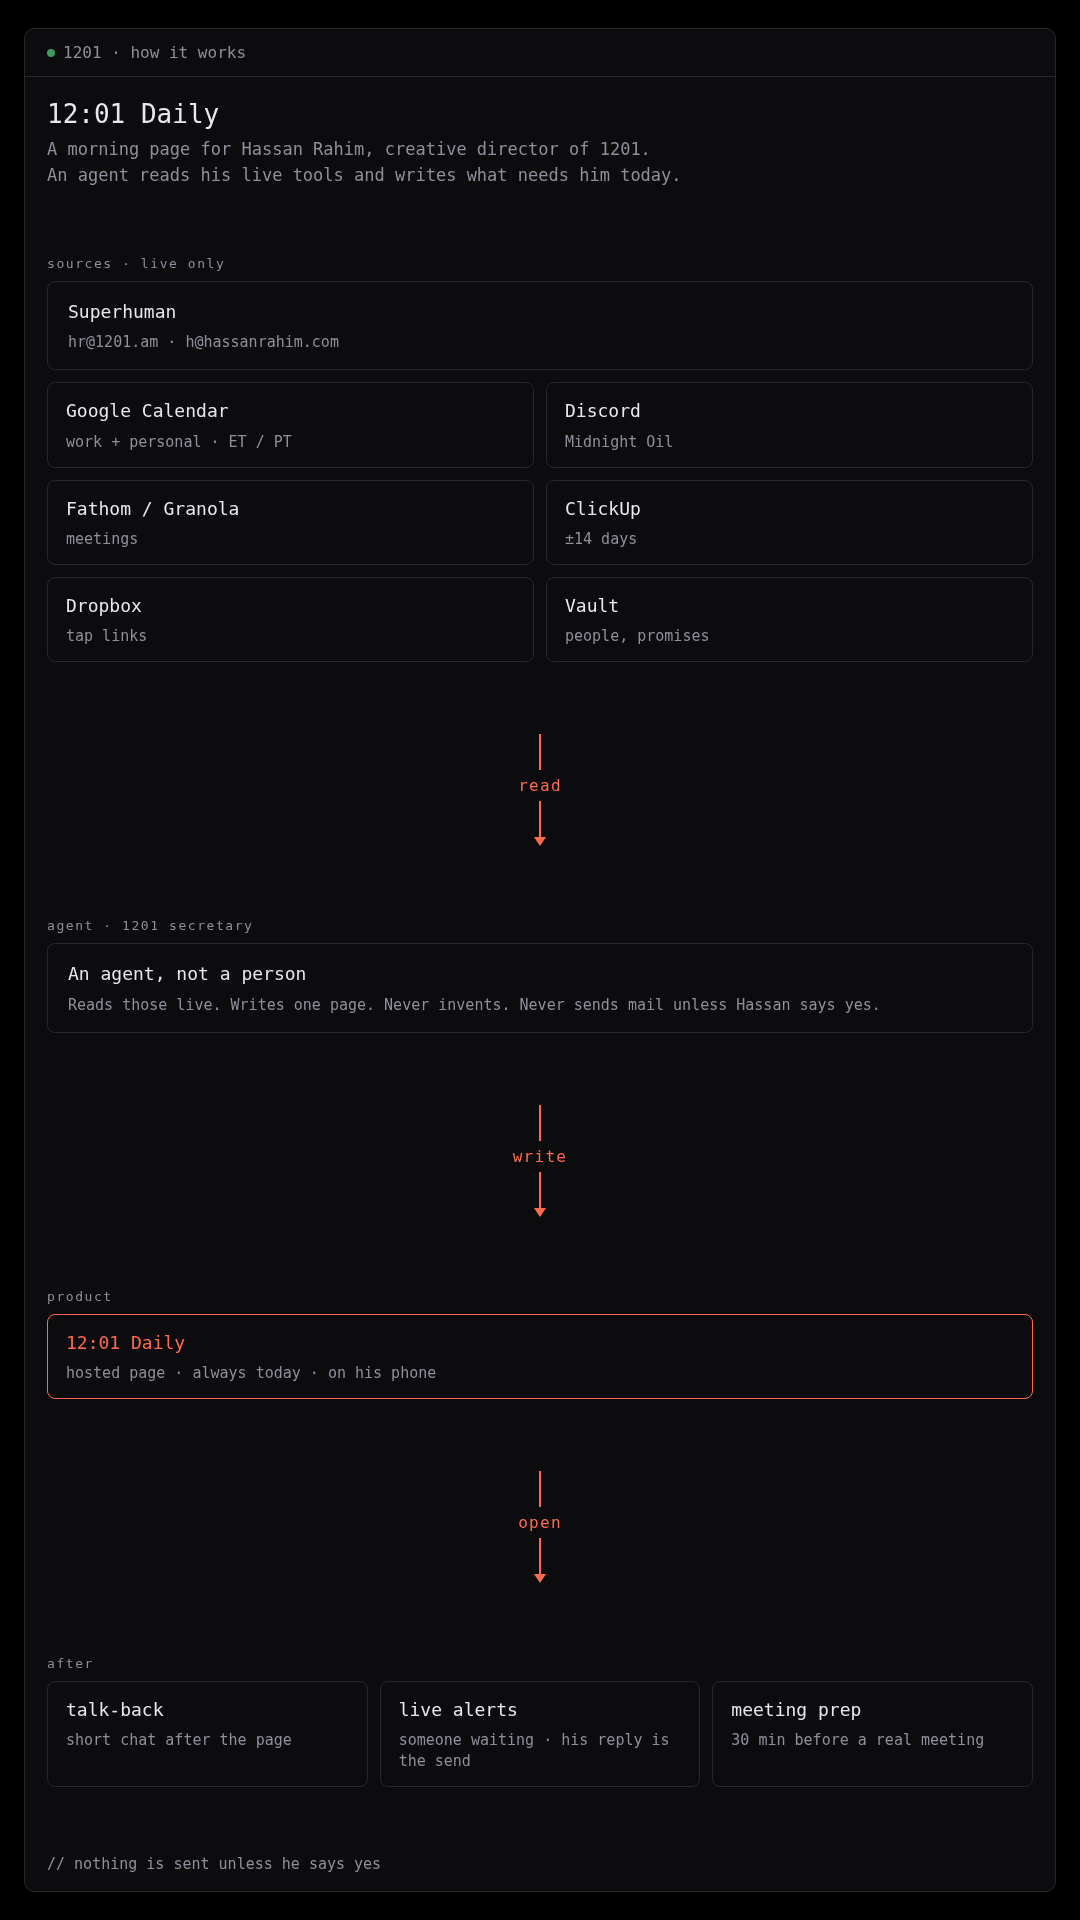
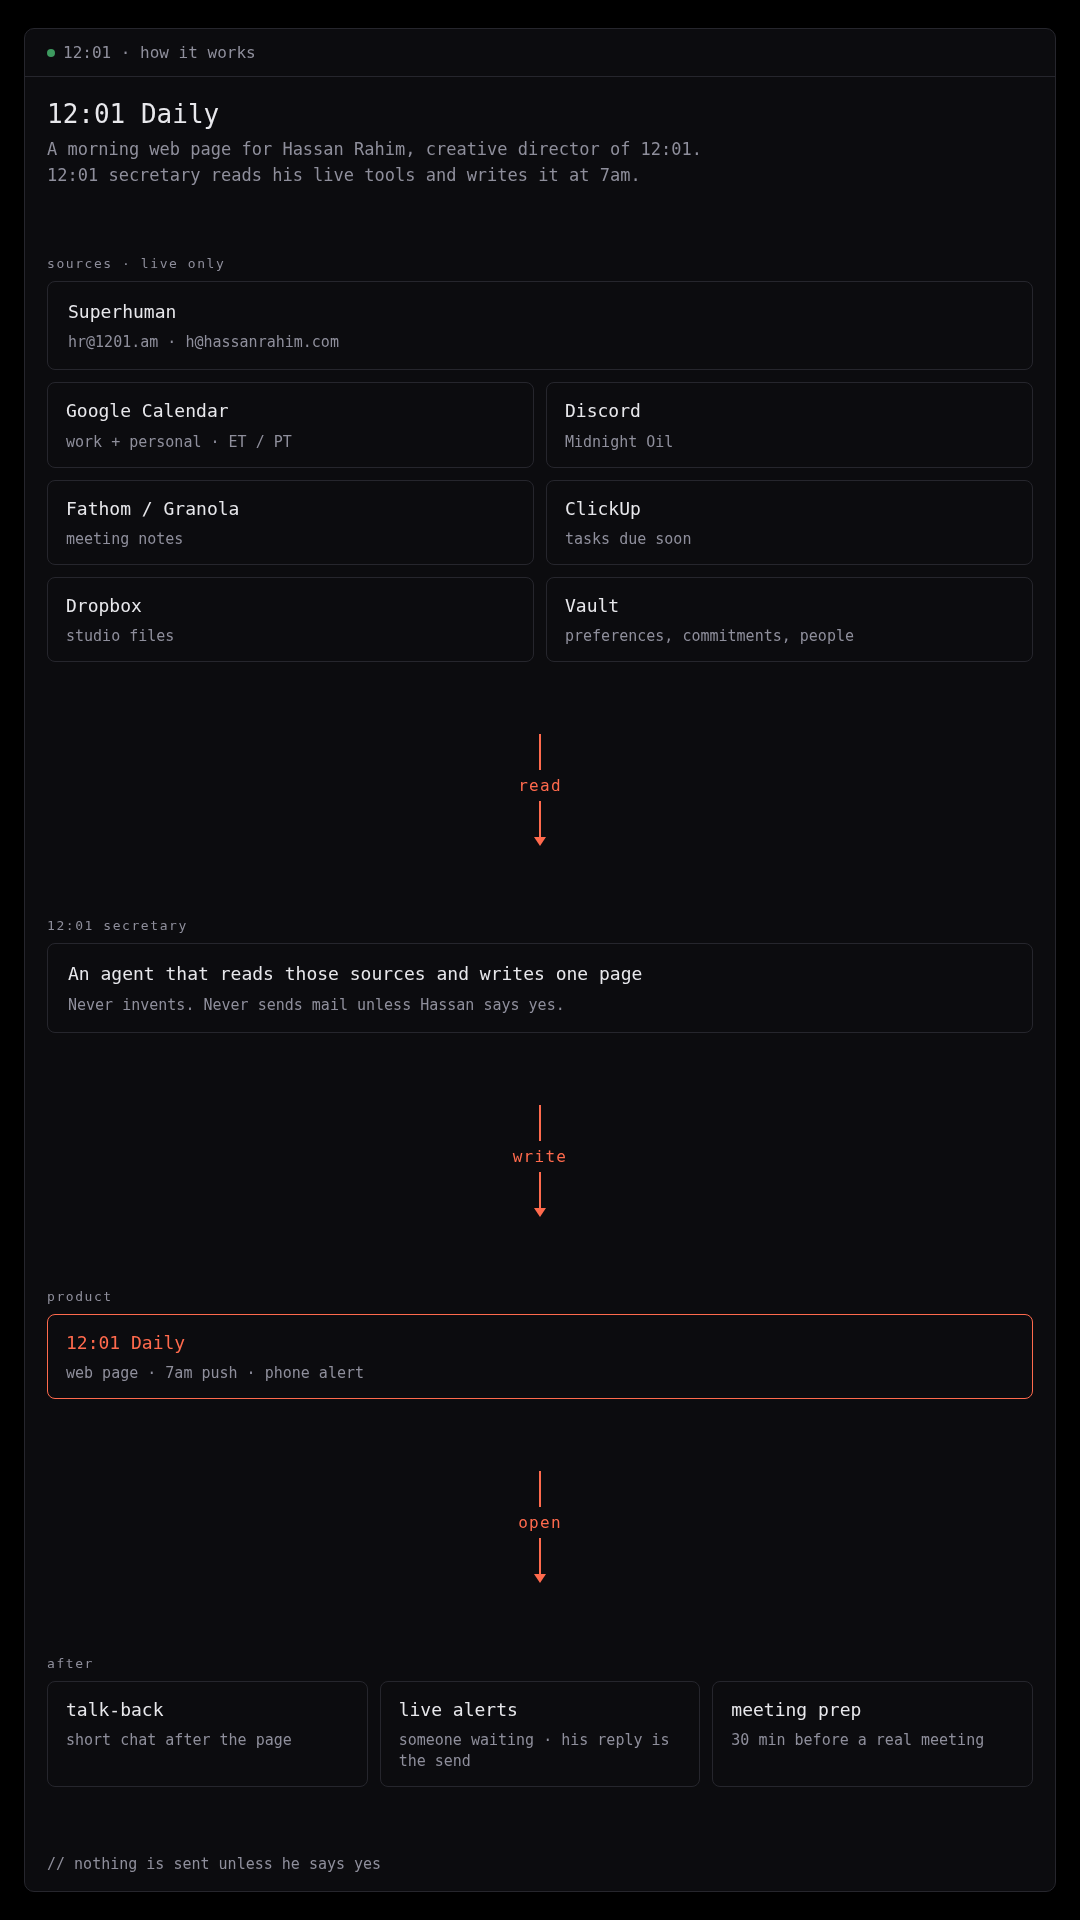
Restore catalog how page with copy fixes
proposals/system/how.html, how-poster.html, how-flow.png only. Live Daily unchanged.

Changed region(s): [[0.1528, 0.5, 0.6111, 0.5312], [0.1528, 0.0625, 0.6111, 0.0938], [0.55, 0.3125, 0.5806, 0.3438]]

diff --git a/proposals/system/how.html b/proposals/system/how.html
@@ -4,182 +4,163 @@
 <meta charset="utf-8">
 <meta name="viewport" content="width=device-width, initial-scale=1">
 <title>12:01 Daily · How it works</title>
+<link rel="stylesheet" href="system.css?v=10">
 <style>
-  :root {
-    --bg: #101013;
-    --fg: #e8e8ec;
-    --muted: #8f8f9c;
-    --rule: #26262d;
-    --card: #17171c;
-    --accent: #ff6a4d;
-    --recess: #0c0c0f;
-    --ok: #3d9a5f;
-    --mono: ui-monospace, SFMono-Regular, Menlo, Monaco, Consolas, monospace;
-  }
-  * { box-sizing: border-box; }
-  html, body { margin: 0; background: #000; color: var(--fg); }
-  body {
-    font-family: var(--mono);
-    -webkit-text-size-adjust: 100%;
-  }
-  .page {
-    max-width: 760px;
-    margin: 0 auto;
-    padding: 18px 16px 40px;
-  }
-  .back {
-    display: inline-block;
-    color: var(--muted);
-    text-decoration: none;
-    font-size: 14px;
-    margin: 0 0 14px;
-  }
-  .chart {
-    background: var(--recess);
-    border: 1px solid var(--rule);
-    border-radius: 10px;
-    overflow: hidden;
-  }
-  .chart-hd {
-    display: flex;
-    align-items: center;
-    gap: 8px;
-    padding: 14px 16px;
-    border-bottom: 1px solid var(--rule);
-    color: var(--muted);
-    font-size: 14px;
-  }
-  .dot {
-    width: 8px;
-    height: 8px;
-    border-radius: 50%;
-    background: var(--ok);
-    flex: 0 0 8px;
-  }
-  .chart-bd { padding: 20px 16px 18px; }
-  .pl { margin: 0 0 8px; font-size: 24px; line-height: 1.2; }
-  .lede { color: var(--muted); margin: 0; font-size: 15px; line-height: 1.45; }
-  .lede + .lede { margin-top: 2px; }
-  .intro { margin: 0 0 22px; }
-  .sec {
-    color: var(--muted);
-    font-size: 12px;
-    letter-spacing: 0.12em;
-    text-transform: lowercase;
-    padding: 0 0 10px;
-  }
-  .row2 { display: grid; grid-template-columns: 1fr 1fr; gap: 10px; }
-  .row3 { display: grid; grid-template-columns: 1fr; gap: 10px; }
-  @media (min-width: 560px) {
-    .row3 { grid-template-columns: 1fr 1fr 1fr; }
-    .chart-bd { padding: 24px 22px 20px; }
-  }
-  .col { display: flex; flex-direction: column; gap: 10px; }
-  .box {
-    background: transparent;
-    border: 1px solid var(--rule);
-    border-radius: 8px;
-    padding: 16px 16px 14px;
-  }
-  .box .k { font-size: 16px; line-height: 1.35; }
-  .box .v { color: var(--muted); font-size: 14px; margin-top: 8px; line-height: 1.4; }
-  .peak { border-color: var(--accent); }
-  .peak .k { color: var(--accent); }
-  .flow {
-    display: flex;
-    flex-direction: column;
-    align-items: center;
-    padding: 8px 0;
-  }
-  .flow .spine {
-    width: 2px;
-    height: 28px;
-    background: var(--accent);
-  }
-  .flow .lab {
-    color: var(--accent);
-    font-size: 15px;
-    letter-spacing: 0.08em;
-    padding: 6px 0;
-  }
-  .flow .head {
-    width: 0;
-    height: 0;
-    border-left: 6px solid transparent;
-    border-right: 6px solid transparent;
-    border-top: 9px solid var(--accent);
-  }
-  .foot { color: var(--muted); font-size: 13px; margin: 18px 0 0; }
+.lede { margin: 0 0 8px; font-size: 17px; line-height: 1.5; }
+.box {
+  background: var(--card);
+  border: 1px solid var(--rule);
+  border-radius: 10px;
+  padding: 16px 16px 14px;
+  margin: 0 0 10px;
+}
+.box h3 { margin: 0 0 6px; font-size: 17px; font-weight: 620; letter-spacing: -0.02em; }
+.box p { margin: 0; color: var(--muted); font-size: 15px; line-height: 1.5; }
+.box.peak { border-color: var(--accent); }
+.arr { text-align: center; color: var(--accent); font-size: 13px; font-weight: 620; letter-spacing: 0.08em; text-transform: uppercase; padding: 2px 0 12px; }
+.term .sec {
+  color: var(--muted);
+  font-size: 12px;
+  letter-spacing: 0.12em;
+  text-transform: lowercase;
+  padding: 4px 0 10px;
+}
+.term .col { display: flex; flex-direction: column; gap: 10px; }
+.term .row2 { display: grid; grid-template-columns: 1fr 1fr; gap: 10px; }
+.term .row3 { display: grid; grid-template-columns: 1fr; gap: 10px; }
+@media (min-width: 560px) {
+  .term .row3 { grid-template-columns: 1fr 1fr 1fr; }
+}
+.term .sbox {
+  background: transparent;
+  border: 1px solid var(--rule);
+  border-radius: 8px;
+  padding: 14px 16px 12px;
+}
+.term .sbox .k { color: var(--fg); }
+.term .sbox .v { color: var(--muted); margin-top: 8px; }
+.term .sbox.peak { border-color: var(--accent); }
+.term .sbox.peak .k { color: var(--accent); }
+.term .flow {
+  display: flex;
+  flex-direction: column;
+  align-items: center;
+  padding: 14px 0 12px;
+}
+.term .flow .spine {
+  width: 2px;
+  height: 28px;
+  background: var(--accent);
+}
+.term .flow .lab {
+  color: var(--accent);
+  font-size: 14px;
+  letter-spacing: 0.08em;
+  padding: 6px 0;
+}
+.term .flow .head {
+  width: 0;
+  height: 0;
+  border-left: 6px solid transparent;
+  border-right: 6px solid transparent;
+  border-top: 9px solid var(--accent);
+}
 </style>
 </head>
 <body>
-<div class="page">
-  <a class="back" href="index.html">← System</a>
-  <div class="chart">
-    <div class="chart-hd"><span class="dot"></span>1201 · how it works</div>
-    <div class="chart-bd">
-      <div class="intro">
-        <div class="pl">12:01 Daily</div>
-        <div class="lede">A morning page for Hassan Rahim, creative director of 1201.</div>
-        <div class="lede">An agent reads his live tools and writes what needs him today.</div>
-      </div>
+<div class="wrap">
+  <header class="site">
+    <a class="back" href="index.html">← System</a>
+    <div class="brand">
+      <img class="mark" src="../../apple-touch-icon.png" alt="">
+      <h1>12:01 Daily</h1>
+    </div>
+    <p class="whenuse">A morning web page for Hassan Rahim, creative director of 12:01. 12:01 secretary reads his live tools and writes it at 7am.</p>
+  </header>
 
-      <div>
+  <section>
+    <p class="lede">Every day at 7am PT, an agent called 12:01 secretary reads his live tools and writes one web page: what needs him today. The page pushes, and his phone gets an alert. Chat is talk-back after. Nothing is invented. Nothing is sent unless he says yes.</p>
+  </section>
+
+  <section>
+    <div class="label"><span>How it works</span><span>live only</span></div>
+    <div class="term">
+      <div class="term-hd"><span class="dot" aria-hidden="true"></span>12:01 · how it works</div>
+      <div class="term-bd">
         <div class="sec">sources · live only</div>
         <div class="col">
-          <div class="box">
+          <div class="sbox">
             <div class="k">Superhuman</div>
             <div class="v">hr@1201.am · h@hassanrahim.com</div>
           </div>
           <div class="row2">
-            <div class="box"><div class="k">Google Calendar</div><div class="v">work + personal · ET / PT</div></div>
-            <div class="box"><div class="k">Discord</div><div class="v">Midnight Oil</div></div>
+            <div class="sbox"><div class="k">Google Calendar</div><div class="v">work + personal · ET / PT</div></div>
+            <div class="sbox"><div class="k">Discord</div><div class="v">Midnight Oil</div></div>
           </div>
           <div class="row2">
-            <div class="box"><div class="k">Fathom / Granola</div><div class="v">meetings</div></div>
-            <div class="box"><div class="k">ClickUp</div><div class="v">±14 days</div></div>
+            <div class="sbox"><div class="k">Fathom / Granola</div><div class="v">meeting notes</div></div>
+            <div class="sbox"><div class="k">ClickUp</div><div class="v">tasks due soon</div></div>
           </div>
           <div class="row2">
-            <div class="box"><div class="k">Dropbox</div><div class="v">tap links</div></div>
-            <div class="box"><div class="k">Vault</div><div class="v">people, promises</div></div>
+            <div class="sbox"><div class="k">Dropbox</div><div class="v">studio files</div></div>
+            <div class="sbox"><div class="k">Vault</div><div class="v">preferences, commitments, people</div></div>
           </div>
         </div>
-      </div>
 
-      <div class="flow"><div class="spine"></div><div class="lab">read</div><div class="spine"></div><div class="head"></div></div>
+        <div class="flow"><div class="spine"></div><div class="lab">read</div><div class="spine"></div><div class="head"></div></div>
 
-      <div>
-        <div class="sec">agent · 1201 secretary</div>
-        <div class="box">
-          <div class="k">An agent, not a person</div>
-          <div class="v">Reads those live. Writes one page. Never invents. Never sends mail unless Hassan says yes.</div>
+        <div class="sec">12:01 secretary</div>
+        <div class="sbox">
+          <div class="k">An agent that reads those sources and writes one page</div>
+          <div class="v">Never invents. Never sends mail unless Hassan says yes.</div>
         </div>
-      </div>
 
-      <div class="flow"><div class="spine"></div><div class="lab">write</div><div class="spine"></div><div class="head"></div></div>
+        <div class="flow"><div class="spine"></div><div class="lab">write</div><div class="spine"></div><div class="head"></div></div>
 
-      <div>
         <div class="sec">product</div>
-        <div class="box peak">
+        <div class="sbox peak">
           <div class="k">12:01 Daily</div>
-          <div class="v">hosted page · always today · on his phone</div>
+          <div class="v">web page · 7am push · phone alert</div>
         </div>
-      </div>
 
-      <div class="flow"><div class="spine"></div><div class="lab">open</div><div class="spine"></div><div class="head"></div></div>
+        <div class="flow"><div class="spine"></div><div class="lab">open</div><div class="spine"></div><div class="head"></div></div>
 
-      <div>
         <div class="sec">after</div>
         <div class="row3">
-          <div class="box"><div class="k">talk-back</div><div class="v">short chat after the page</div></div>
-          <div class="box"><div class="k">live alerts</div><div class="v">someone waiting · his reply is the send</div></div>
-          <div class="box"><div class="k">meeting prep</div><div class="v">30 min before a real meeting</div></div>
+          <div class="sbox"><div class="k">talk-back</div><div class="v">short chat after the page</div></div>
+          <div class="sbox"><div class="k">live alerts</div><div class="v">someone waiting · his reply is the send</div></div>
+          <div class="sbox"><div class="k">meeting prep</div><div class="v">30 min before a real meeting</div></div>
         </div>
+        <div class="fu">// nothing is sent unless he says yes</div>
       </div>
-
-      <div class="foot">// nothing is sent unless he says yes</div>
     </div>
-  </div>
+  </section>
+
+  <div class="arr">↓ in plain words</div>
+
+  <section>
+    <div class="box">
+      <h3>Sources</h3>
+      <p>Superhuman is all mail: hr@1201.am and h@hassanrahim.com. Gmail is only a fallback if Superhuman cannot see an inbox. Google Calendar is the source of truth for work and personal. Label ET vs PT. Skip junk holds. Discord is Midnight Oil. Fathom / Granola for meeting notes. ClickUp for tasks due soon. Dropbox for studio files. Vault is standing memory: preferences, commitments, people.</p>
+    </div>
+    <div class="box">
+      <h3>12:01 secretary</h3>
+      <p>An agent that reads those live sources and writes one page. Never invents. Never sends mail unless Hassan says yes.</p>
+    </div>
+    <div class="box peak">
+      <h3>12:01 Daily</h3>
+      <p>The product is a web page. It pushes at 7am. His phone gets an alert. That is the morning brief, not a chat wall.</p>
+    </div>
+    <div class="box">
+      <h3>After the page</h3>
+      <p>Talk-back is short chat after the page. Live alerts: someone waiting, a draft sits ready, his reply is the send. Meeting prep is 30 minutes before a real meeting — who, last notes, what he owes.</p>
+    </div>
+  </section>
+
+  <footer class="site">
+    <a class="back" href="index.html">← System</a><br>
+    Nothing is sent unless he says yes.
+  </footer>
 </div>
 </body>
 </html>

diff --git a/proposals/system/how-poster.html b/proposals/system/how-poster.html
@@ -93,12 +93,12 @@
 </head>
 <body>
   <div class="term">
-    <div class="term-hd"><span class="dot"></span>1201 · how it works</div>
+    <div class="term-hd"><span class="dot"></span>12:01 · how it works</div>
     <div class="term-bd">
       <div>
         <div class="pl">12:01 Daily</div>
-        <div class="lede">A morning page for Hassan Rahim, creative director of 1201.</div>
-        <div class="lede">An agent reads his live tools and writes what needs him today.</div>
+        <div class="lede">A morning web page for Hassan Rahim, creative director of 12:01.</div>
+        <div class="lede">12:01 secretary reads his live tools and writes it at 7am.</div>
       </div>
 
       <div>
@@ -113,12 +113,12 @@
             <div class="box"><div class="k">Discord</div><div class="v">Midnight Oil</div></div>
           </div>
           <div class="row2">
-            <div class="box"><div class="k">Fathom / Granola</div><div class="v">meetings</div></div>
-            <div class="box"><div class="k">ClickUp</div><div class="v">±14 days</div></div>
+            <div class="box"><div class="k">Fathom / Granola</div><div class="v">meeting notes</div></div>
+            <div class="box"><div class="k">ClickUp</div><div class="v">tasks due soon</div></div>
           </div>
           <div class="row2">
-            <div class="box"><div class="k">Dropbox</div><div class="v">tap links</div></div>
-            <div class="box"><div class="k">Vault</div><div class="v">people, promises</div></div>
+            <div class="box"><div class="k">Dropbox</div><div class="v">studio files</div></div>
+            <div class="box"><div class="k">Vault</div><div class="v">preferences, commitments, people</div></div>
           </div>
         </div>
       </div>
@@ -126,10 +126,10 @@
       <div class="flow"><div class="spine"></div><div class="lab">read</div><div class="spine"></div><div class="head"></div></div>
 
       <div>
-        <div class="sec">agent · 1201 secretary</div>
+        <div class="sec">12:01 secretary</div>
         <div class="box wide">
-          <div class="k">An agent, not a person</div>
-          <div class="v">Reads those live. Writes one page. Never invents. Never sends mail unless Hassan says yes.</div>
+          <div class="k">An agent that reads those sources and writes one page</div>
+          <div class="v">Never invents. Never sends mail unless Hassan says yes.</div>
         </div>
       </div>
 
@@ -139,7 +139,7 @@
         <div class="sec">product</div>
         <div class="box peak">
           <div class="k">12:01 Daily</div>
-          <div class="v">hosted page · always today · on his phone</div>
+          <div class="v">web page · 7am push · phone alert</div>
         </div>
       </div>
 
